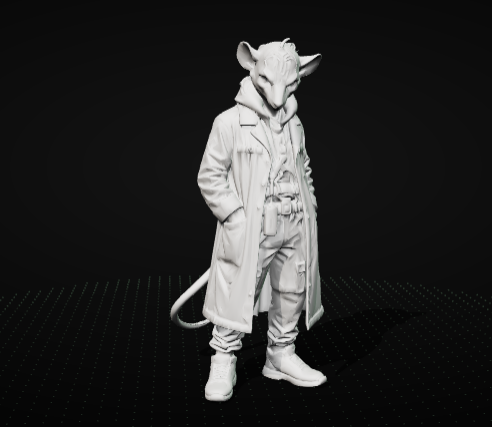
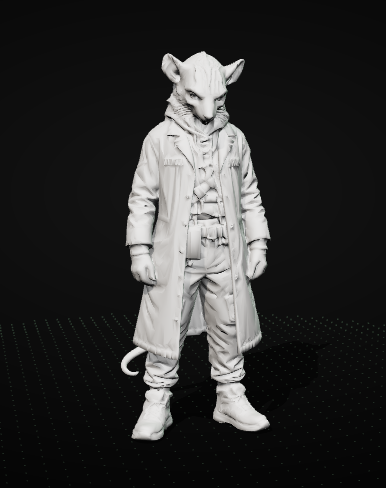
README: show the game Labrat in texture / clay / wire
The demo-generated Labrat (hands in pockets, smoothed coat) stays in the
AI demo GIF; the view-mode trio now uses the polished model the game ships.

Changed region(s): [[0.3109, 0.0913, 0.715, 0.9438]]

diff --git a/README.md b/README.md
@@ -87,7 +87,7 @@ and a **Refinish** panel that re-sizes, re-budgets or turns the model around for
 
 | Texture | Clay | Wire |
 |---|---|---|
-| ![The textured Labrat](docs/screenshots/labrat-texture.png) | ![The same Labrat in clay shading](docs/screenshots/labrat-clay.png) | ![The same Labrat as a green wireframe](docs/screenshots/labrat-wire.png) |
+| ![The textured Labrat from Rat Underground](docs/screenshots/labrat-texture.png) | ![The same Labrat in clay shading](docs/screenshots/labrat-clay.png) | ![The same Labrat as a green wireframe](docs/screenshots/labrat-wire.png) |
 
 Clay mode shows the real shape without the paint. Wire mode shows the topology you're shipping. Flip
 between **Studio** and **Neon** lighting to see how it holds up in a dark scene.
